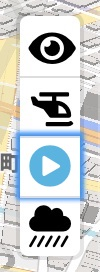
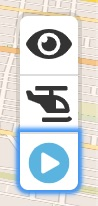
Bump version to 2.6.0

diff --git a/USER_GUIDE-ja.md b/USER_GUIDE-ja.md
@@ -64,7 +64,7 @@ Mini Tokyo 3D の特徴は次の通りです。
 2. **検索ボタン**: [経路検索](#%E7%B5%8C%E8%B7%AF%E6%A4%9C%E7%B4%A2)をご覧ください
 3. **ナビゲーションボタン**: [地図の拡大・縮小](#%E5%9C%B0%E5%9B%B3%E3%81%AE%E6%8B%A1%E5%A4%A7%E7%B8%AE%E5%B0%8F)、[地図の回転と傾きの変更](#%E5%9C%B0%E5%9B%B3%E3%81%AE%E5%9B%9E%E8%BB%A2%E3%81%A8%E5%82%BE%E3%81%8D%E3%81%AE%E5%A4%89%E6%9B%B4)をご覧ください
 4. **表示モード切り替えボタン**: [表示モード](#%E8%A1%A8%E7%A4%BA%E3%83%A2%E3%83%BC%E3%83%89)をご覧ください
-5. **アプリ情報ボタン**: [アプリ情報の表示](#%E3%82%A2%E3%83%97%E3%83%AA%E6%83%85%E5%A0%B1%E3%81%AE%E8%A1%A8%E7%A4%BA)をご覧ください
+5. **設定ボタン**: [設定](#%E8%A8%AD%E5%AE%9A)をご覧ください
 
 ### 地図のスクロール
 
@@ -148,13 +148,7 @@ Mini Tokyo 3D の特徴は次の通りです。
 
 検索ウィンドウが表示されている状態では、列車や旅客機、駅の選択を行うことはできません。検索ウィンドウを閉じるには、検索アイコンボタンを再度クリックします。
 
-**注意**: バージョン 2.5 現在、時刻の指定は出発時刻のみ、当日の列車のみ検索可能、リアルタイムの遅延は反映されない、という制限があります。
-
-### アプリ情報の表示
-
-<img src="public/images/info-icon.jpg" width="355">
-
-情報アイコンボタンをクリックまたはタップすると、アプリおよびデータの情報が表示されます。静的データ・動的データの最終更新日時も表示されます。
+**注意**: バージョン 2.6 現在、時刻の指定は出発時刻のみ、当日の列車のみ検索可能、という制限があります。
 
 ## 表示モード
 
@@ -168,7 +162,7 @@ Mini Tokyo 3D の特徴は次の通りです。
 
 ### 地下モード
 
-<img src="public/images/underground.jpg" width="662"> <img src="public/images/eye-icon.jpg" width="50" align="top">
+<img src="public/images/underground.jpg" width="662"> <img src="public/images/eye-icon.jpg" width="49" align="top">
 
 眼アイコンボタンをクリックまたはタップすると、地下モードのオン・オフを切り替えることができます（オンの状態でアイコンは水色で表示されます）。
 
@@ -180,7 +174,7 @@ Mini Tokyo 3D の特徴は次の通りです。
 
 ### 追跡モード
 
-<img src="public/images/helicopter-tracking.jpg" width="400"> <img src="public/images/helicopter-icon.jpg" width="50" align="top"> <img src="public/images/rear-tracking.jpg" width="400"> <img src="public/images/train-icon.jpg" width="50" align="top">
+<img src="public/images/helicopter-tracking.jpg" width="400"> <img src="public/images/helicopter-icon.jpg" width="49" align="top"> <img src="public/images/rear-tracking.jpg" width="400"> <img src="public/images/train-icon.jpg" width="49" align="top">
 
 列車や旅客機をクリックまたはタップすると、追跡モードがオンに切り替わり、列車や旅客機の動きに追随して画面が自動的に移動します（オンの状態でアイコンは水色で表示されます）。列車や旅客機が存在しない地図上をクリックすると、追跡モードがオフに切り替わります。
 
@@ -192,7 +186,7 @@ Mini Tokyo 3D の特徴は次の通りです。
 
 ### 再生モード
 
-<img src="public/images/playback-icon.jpg" width="50">
+<img src="public/images/playback-icon.jpg" width="49">
 
 再生アイコンボタンをクリックまたはタップすると、再生モードのオン・オフを切り替えることができます（オンの状態でアイコンは水色で表示されます）。
 
@@ -204,13 +198,27 @@ Mini Tokyo 3D の特徴は次の通りです。
 
 <img src="public/images/clock-playback.jpg" width="141"> <img src="public/images/clock-edit.jpg" width="292" align="top">
 
-### 降水表示
+## 設定
 
-<img src="public/images/weather.jpg" width="580"> <img src="public/images/weather-icon.jpg" width="50" align="top">
+### レイヤー表示設定
 
-雨雲アイコンボタンをクリックまたはタップすると、降水アニメーションの表示のオン・オフを切り替えることができます（オンの状態でアイコンは水色で表示されます）。
+<img src="public/images/layer-panel.jpg" width="490"> <img src="public/images/layer-icon.jpg" width="49" align="top">
 
-リアルタイムの気象情報を基に、1kmメッシュ単位で8段階の降水強度を 3D アニメーションで表示します。
+レイヤーアイコンボタンをクリックまたはタップすると、レイヤー表示設定パネルが表示されます。レイヤー表示設定パネルでは、地図上に重ねて表示するレイヤーのオン・オフを切り替えることができます。降水レイヤー、花火レイヤーが用意されています。パネル右上の「×」ボタン、またはパネルの外をクリックまたはタップするとパネルが閉じます。
+
+<img src="public/images/weather.jpg" width="580">
+
+降水レイヤーボタンをクリックまたはタップすると、降水アニメーションの表示のオン・オフを切り替えることができます（オンの状態ではアイコンの外枠が水色で表示されます）。リアルタイムの気象情報を基に、1kmメッシュ単位で8段階の降水強度を 3D アニメーションで表示します。
+
+<img src="public/images/fireworks.jpg" width="580">
+
+花火レイヤーボタンをクリックまたはタップすると、花火アニメーションの表示のオン・オフを切り替えることができます（オンの状態ではアイコンの外枠が水色で表示されます）。スケジュールされた日時に特定の場所の地図上で、花火のアニメーションが表示されます。
+
+### アプリ情報の表示
+
+<img src="public/images/about-panel.jpg" width="490"> <img src="public/images/info-icon.jpg" width="49" align="top">
+
+情報アイコンボタンをクリックまたはタップすると、アプリおよびデータの情報が表示されます。静的データ・動的データの最終更新日時も表示されます。パネル右上の「×」ボタン、またはパネルの外をクリックまたはタップするとパネルが閉じます。
 
 ## データについて
 
@@ -229,10 +237,10 @@ Mini Tokyo 3D の特徴は次の通りです。
 
 次のブラウザで動作を確認しています。推奨は Chrome です。Internet Explorer には非対応です。
 
-- Chrome 86 (Mac OS, Windows, iOS, Android)
-- FireFox 82 (Mac OS, Windows, iOS)
+- Chrome 87 (Mac OS, Windows, iOS, Android)
+- FireFox 83 (Mac OS, Windows, iOS)
 - Safari 14 (Mac OS, iOS)
-- Edge 86 (Mac OS, Windows)
+- Edge 87 (Mac OS, Windows)
 
 ## 開発情報
 

diff --git a/DEVELOPER_GUIDE-ja.md b/DEVELOPER_GUIDE-ja.md
@@ -123,7 +123,7 @@ new MiniTokyo3D(options: Object)
 **`options.navigationControl`**<br>[`boolean`](https://developer.mozilla.org/docs/Web/JavaScript/Reference/Global_Objects/Boolean)<br>デフォルト: `true` | `true` の場合、ナビゲーションボタンをマップに追加する
 **`options.fullscreenControl`**<br>[`boolean`](https://developer.mozilla.org/docs/Web/JavaScript/Reference/Global_Objects/Boolean)<br>デフォルト: `true` | `true` の場合、フルスクリーンボタンをマップに追加する
 **`options.modeControl`**<br>[`boolean`](https://developer.mozilla.org/docs/Web/JavaScript/Reference/Global_Objects/Boolean)<br>デフォルト: `true` | `true` の場合、表示モード切り替えボタンをマップに追加する
-**`options.infoControl`**<br>[`boolean`](https://developer.mozilla.org/docs/Web/JavaScript/Reference/Global_Objects/Boolean)<br>デフォルト: `true` | `true` の場合、アプリ情報ボタンをマップに追加する
+**`options.configControl`**<br>[`boolean`](https://developer.mozilla.org/docs/Web/JavaScript/Reference/Global_Objects/Boolean)<br>デフォルト: `true` | `true` の場合、設定ボタンをマップに追加する
 **`options.trackingMode`**<br>[`string`](https://developer.mozilla.org/docs/Web/JavaScript/Reference/Global_Objects/String)<br>デフォルト: `'helicopter'` | 初期の追跡モードを指定する。`'helicopter'` または `'heading'` がサポートされている
 **`options.center`**<br>[`LngLatLike`](https://docs.mapbox.com/mapbox-gl-js/api/#lnglatlike)<br>デフォルト: `[139.7670, 35.6814]` | 初期のマップ中心点の座標。未指定の場合は、東京駅付近（`[139.7670, 35.6814]`）に設定される。注: Mini Tokyo 3D では、GeoJSON と同様に経度、緯度の順で座標を指定する
 **`options.zoom`**<br>[`number`](https://developer.mozilla.org/docs/Web/JavaScript/Reference/Global_Objects/Number)<br>デフォルト: `14` | 初期のマップのズームレベル。未指定の場合は、`14` に設定される

diff --git a/DEVELOPER_GUIDE-en.md b/DEVELOPER_GUIDE-en.md
@@ -123,7 +123,7 @@ Name | Description
 **`options.navigationControl`**<br>[`boolean`](https://developer.mozilla.org/docs/Web/JavaScript/Reference/Global_Objects/Boolean)<br>default: `true` | If `true`, the navigation buttons will be added to the map
 **`options.fullscreenControl`**<br>[`boolean`](https://developer.mozilla.org/docs/Web/JavaScript/Reference/Global_Objects/Boolean)<br>default: `true` | If `true`, the fullscreen button will be added to the map
 **`options.modeControl`**<br>[`boolean`](https://developer.mozilla.org/docs/Web/JavaScript/Reference/Global_Objects/Boolean)<br>default: `true` | If `true`, the mode switch buttons will be added to the map
-**`options.infoControl`**<br>[`boolean`](https://developer.mozilla.org/docs/Web/JavaScript/Reference/Global_Objects/Boolean)<br>default: `true` | If `true`, the app info button will be added to the map
+**`options.configControl`**<br>[`boolean`](https://developer.mozilla.org/docs/Web/JavaScript/Reference/Global_Objects/Boolean)<br>default: `true` | If `true`, the configuration buttons will be added to the map
 **`options.trackingMode`**<br>[`string`](https://developer.mozilla.org/docs/Web/JavaScript/Reference/Global_Objects/String)<br>default: `'helicopter'` | The initial tracking mode. `'helicopter'` and `'heading'` are supported.
 **`options.center`**<br>[`LngLatLike`](https://docs.mapbox.com/mapbox-gl-js/api/#lnglatlike)<br>default: `[139.7670, 35.6814]` | The initial geographical center point of the map. If not specified, it will default to around Tokyo station (`[139.7670, 35.6814]`). Note: Mini Tokyo 3D uses longitude, latitude coordinate order to match GeoJSON.
 **`options.zoom`**<br>[`number`](https://developer.mozilla.org/docs/Web/JavaScript/Reference/Global_Objects/Number)<br>default: `14` | The initial zoom level of the map. If not specified, it will default to `14`.

diff --git a/README.md b/README.md
@@ -37,7 +37,7 @@ Pinch in/out | Zoom in/out
 Two-finger drag | Tilt up/down and rotate
 Double-click or triple-tap | Zoom in
 Shift key + Double-click or two-finger tap | Zoom out
-Click or tap the search button | Show/hide the route search window
+Click or tap the search button | Show/hide the route search panel
 Click or tap +/- buttons | Zoom in/out
 Click or tap the compass button | Reset bearing to north
 Click or tap the compass button + mouse or finder drag | Rotate
@@ -45,8 +45,8 @@ Click or tap the fullscreen button | Toggle the fullscreen mode
 Click or tap the eye button | Toggle the underground mode
 Click or tap the train/helicopter button | Switch the tracking mode
 Click or tap the playback button | Toggle the playback mode
-Click or tap the weather button | Show/hide the weather
-Click or tap the info button | Show/hide the app info dialog
+Click or tap the layer button | Show/hide the layer display settings panel
+Click or tap the info button | Show/hide the app info panel
 Click or tap a train/aircraft/station | Enable tracking or select station
 Click or tap the map | Disable tracking or deselect station
 Hover a train/aircraft/station | Show the train/aircraft/station information
